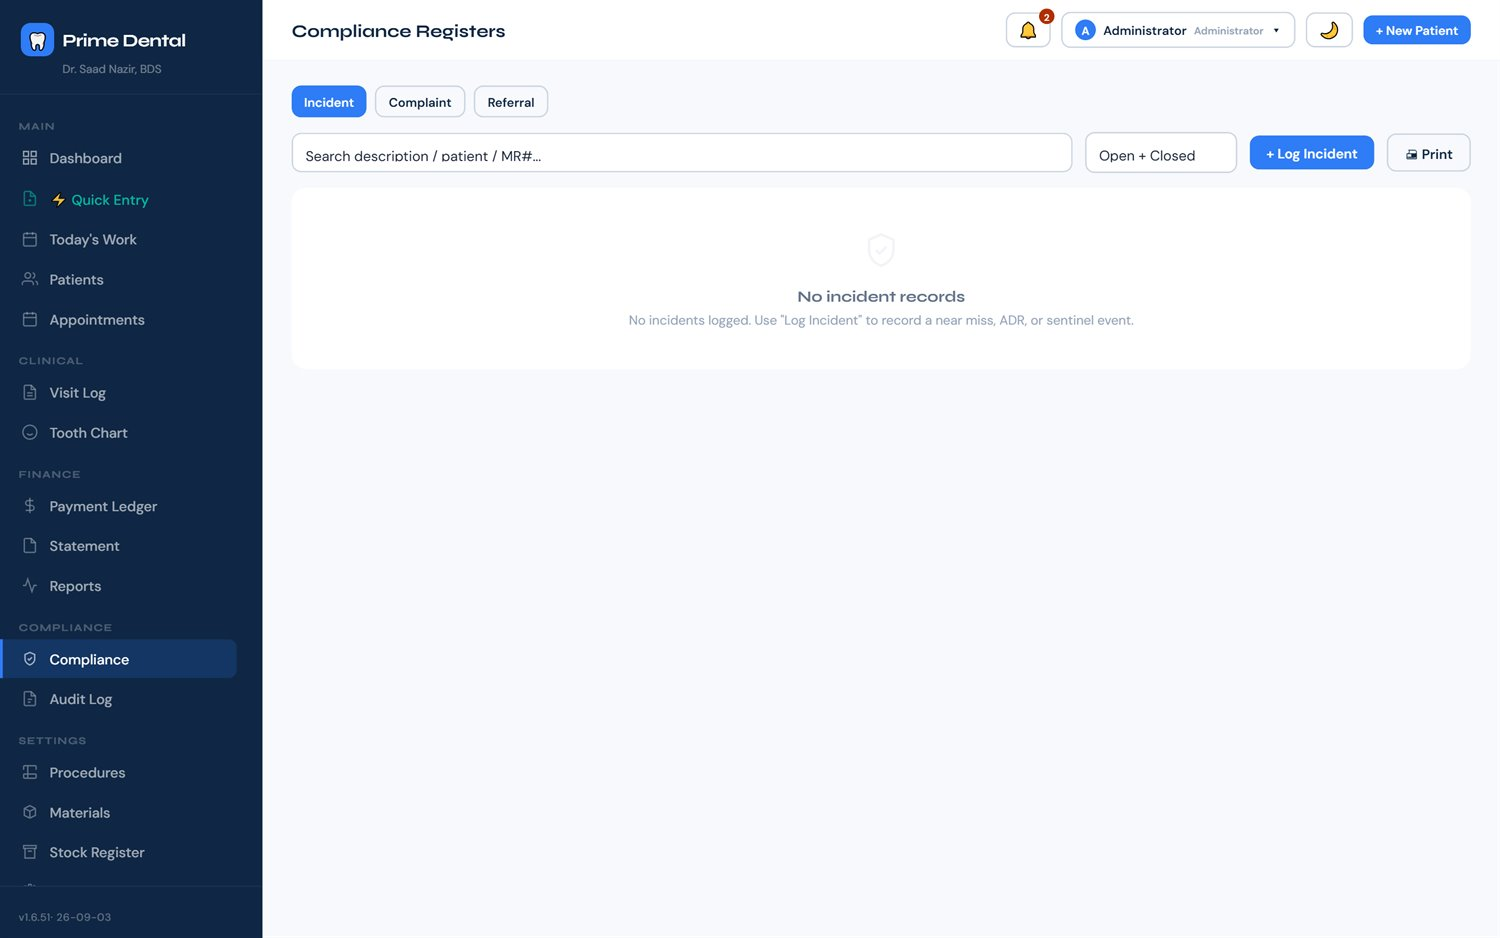
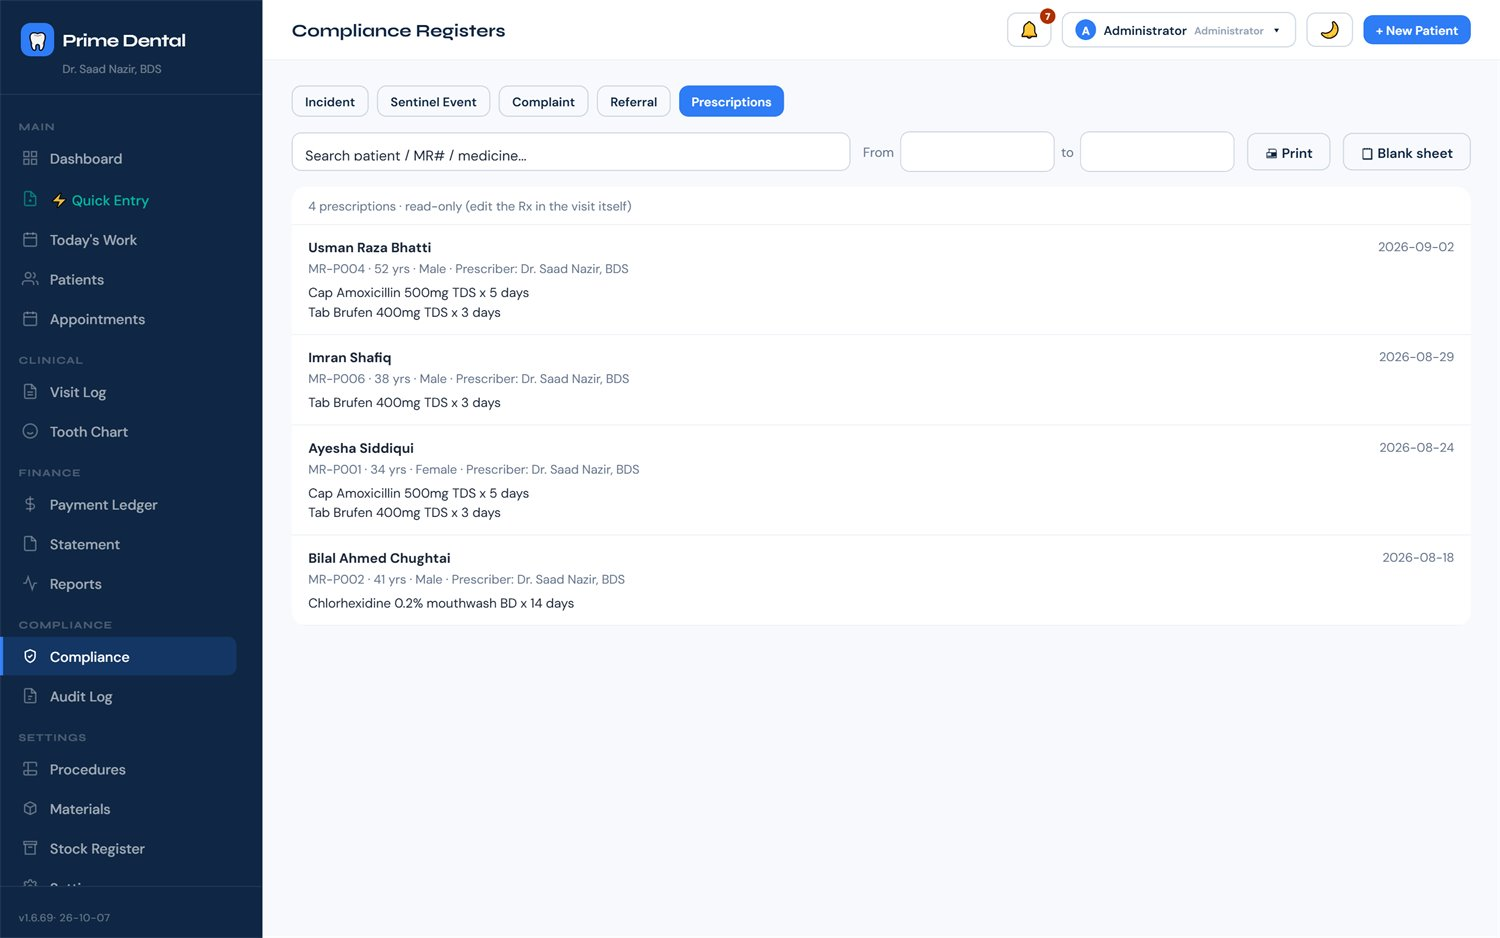
Site: free pilot is now 1 week; add RCT canal grid, ortho chart, money-received report, Urdu handout and prescription register screenshots (client 1.6.69, demo data)

diff --git a/index.html b/index.html
@@ -4,7 +4,7 @@
 <meta charset="utf-8">
 <meta name="viewport" content="width=device-width, initial-scale=1">
 <title>Prime Dental — Practice software that works without internet</title>
-<meta name="description" content="Offline-first dental practice management for Pakistani clinics. Patient records, clinical notes, billing, stock and PHC compliance — all on your own computer. Free 1-month pilot.">
+<meta name="description" content="Offline-first dental practice management for Pakistani clinics. Patient records, clinical notes, billing, stock and PHC compliance — all on your own computer. Free 1-week pilot.">
 <link rel="canonical" href="https://primedentalpk.com/">
 <meta property="og:site_name" content="Prime Dental">
 <meta property="og:title" content="Prime Dental — Practice software that works without internet">
@@ -261,7 +261,7 @@
   var WHATSAPP_NUMBER = "923144685900";      // your number, digits only, country code first, no + and no dashes
   var YOUTUBE_ID      = "YfW4p5If5gs";                   // SHORT teaser: 11-char id from the YouTube link, e.g. "dQw4w9WgXcQ"
   var YOUTUBE_FULL_ID = "";                   // optional — full walkthrough, shown as a link under the player
-  var WHATSAPP_TEXT   = "Assalam o Alaikum. I saw the Prime Dental demo and I'd like to try the 1-month pilot at my clinic.";
+  var WHATSAPP_TEXT   = "Assalam o Alaikum. I saw the Prime Dental demo and I'd like to try the 1-week pilot at my clinic.";
 </script>
 
 <header>
@@ -289,7 +289,7 @@
     <div class="cta-row">
       <a class="btn btn-wa js-wa" href="#">
         <svg width="18" height="18" viewBox="0 0 24 24" fill="currentColor" aria-hidden="true"><path d="M17.5 14.4c-.3-.2-1.8-.9-2-1-.3-.1-.5-.2-.7.1-.2.3-.7 1-.9 1.2-.2.2-.3.2-.6.1-.3-.2-1.3-.5-2.4-1.5-.9-.8-1.5-1.8-1.7-2.1-.2-.3 0-.5.1-.6l.5-.5c.1-.2.2-.3.3-.5 0-.2 0-.4 0-.5 0-.2-.7-1.6-.9-2.2-.3-.6-.5-.5-.7-.5h-.6c-.2 0-.5.1-.8.4-.3.3-1 1-1 2.5s1.1 2.9 1.2 3.1c.2.2 2.1 3.2 5.1 4.4 1.9.8 2.6.9 3.5.7.6-.1 1.8-.7 2-1.4.3-.7.3-1.3.2-1.4-.1-.2-.3-.2-.6-.3zM12 2C6.5 2 2 6.5 2 12c0 1.8.5 3.4 1.3 4.9L2 22l5.3-1.4c1.4.8 3 1.2 4.7 1.2 5.5 0 10-4.5 10-10S17.5 2 12 2zm0 18.2c-1.6 0-3-.4-4.3-1.2l-.3-.2-3.1.8.8-3-.2-.3c-.8-1.3-1.3-2.8-1.3-4.4C3.6 7.4 7.4 3.6 12 3.6S20.4 7.4 20.4 12 16.6 20.2 12 20.2z"/></svg>
-        Request a free 1-month pilot
+        Request a free 1-week pilot
       </a>
       <a class="btn btn-ghost" href="#demo">Watch the demo</a>
     </div>
@@ -410,10 +410,46 @@
       <div><div class="shot"><img loading="lazy" src="img/04-toothchart.jpg" width="1500" height="938" alt="Tooth chart for a patient"></div></div>
     </div>
 
-    <!-- 5 — full width: the printed documents are the most persuasive thing here -->
+    <!-- 5 -->
+    <div class="step">
+      <div class="step-txt">
+        <div class="step-num">5</div>
+        <h3>Root canals, canal by canal</h3>
+        <p>An RCT over several sittings is recorded as one treatment. Each canal gets its working length,
+          reference point and master file, and the next sitting opens with all of it already filled in.</p>
+        <ul>
+          <li>Canal names suggested for the tooth (MB, MB2, DB, P…) and always editable</li>
+          <li>Every earlier sitting shown above today's note</li>
+          <li>Tick each canal as it is obturated. The canals print on the clinical record.</li>
+        </ul>
+      </div>
+      <div><div class="shot shot--doc"><img loading="lazy" src="img/17-rct-canals.jpg" width="1440" height="1620" alt="Continue Treatment window for an RCT on tooth 36 showing the previous sitting and a canal grid with working length, reference point, master file and obturated tick for MB, ML and D canals"></div></div>
+    </div>
+
+    <!-- 6 — full width: orthodontics -->
     <div class="docs-block">
       <div class="docs-head">
-        <div class="step-num">5</div>
+        <div class="step-num">6</div>
+        <h3>An orthodontic chart for every braces case</h3>
+        <p>Pre-treatment records, every adjustment sitting and the debond, all in one place. Each
+          sitting keeps its wires and auxiliaries, and the pre and post readings sit side by side.</p>
+      </div>
+      <div class="pair">
+        <div>
+          <div class="shot shot--doc"><img loading="lazy" src="img/15-ortho-assessment.jpg" width="1500" height="906" alt="Ortho chart assessment tab with diagnosis, treatment plan, pre and post treatment readings and an automatic interpretation panel"></div>
+          <div class="cap"><b>Assessment</b>: enter overjet, overbite, molar and canine relations and ceph values, and the interpretation is worked out for you</div>
+        </div>
+        <div>
+          <div class="shot shot--doc"><img loading="lazy" src="img/16-ortho-photochart.jpg" width="1500" height="906" alt="Ortho photo chart showing treatment progression sittings, newest first, each with upper and lower wire and a row of photo boxes"></div>
+          <div class="cap"><b>Photo chart</b>: newest sitting on top with its wires. Drop the photos into the boxes and they are kept at full original size. Compare any two sittings side by side.</div>
+        </div>
+      </div>
+    </div>
+
+    <!-- 7 — full width: the printed documents are the most persuasive thing here -->
+    <div class="docs-block">
+      <div class="docs-head">
+        <div class="step-num">7</div>
         <h3>Two documents come out of every visit</h3>
         <p>One for your file, one for the patient's hand — both on your letterhead with your name and
           PMDC number, both generated automatically from the note you already wrote. No retyping,
@@ -425,16 +461,16 @@
           <div class="cap"><b>Clinical Visit Record</b> — the full note, for your file</div>
         </div>
         <div>
-          <div class="shot shot--doc"><img loading="lazy" src="img/13-handout.jpg" width="1500" height="932" alt="Patient handout showing prescription and post-treatment instructions"></div>
+          <div class="shot shot--doc"><img loading="lazy" src="img/19-handout-urdu.jpg" width="1500" height="1149" alt="Patient prescription handout with English prescription and post-treatment instructions written in Urdu Nastaliq"></div>
           <div class="cap"><b>Patient handout</b> — prescription and instructions only, in English or <b>Urdu (Nastaliq)</b>. Save it as an image and send it on WhatsApp.</div>
         </div>
       </div>
     </div>
 
-    <!-- 6 -->
+    <!-- 8 -->
     <div class="step">
       <div class="step-txt">
-        <div class="step-num">6</div>
+        <div class="step-num">8</div>
         <h3>Money, tracked to the procedure</h3>
         <p>Every payment is attached to the treatment it paid for — not dumped in a daybook.
           Part-payments, discounts and multi-procedure packages all behave properly.</p>
@@ -447,21 +483,26 @@
       <div><div class="shot"><img loading="lazy" src="img/05-ledger.jpg" width="1500" height="938" alt="Payment ledger listing payments by patient, method and date"></div></div>
     </div>
 
-    <!-- 7 -->
+    <!-- 9 -->
     <div class="step">
       <div class="step-txt">
-        <div class="step-num">7</div>
+        <div class="step-num">9</div>
         <h3>Reports that answer real questions</h3>
         <p>What did the clinic earn this month, which procedures actually bring in the money,
           who hasn't come back — without exporting anything to Excel first.</p>
+        <ul>
+          <li>Click any month to see the work finished and <b>every rupee received</b> that month</li>
+          <li>Old dues paid this month are marked <b>earlier</b>, so the month adds up exactly to what came in</li>
+          <li>Discounts and fee changes are listed on the day they were made</li>
+        </ul>
       </div>
-      <div><div class="shot"><img loading="lazy" src="img/06-reports.jpg" width="1500" height="1311" alt="Reports page with revenue and procedure breakdowns"></div></div>
+      <div><div class="shot shot--doc"><img loading="lazy" src="img/18-money-received.jpg" width="1500" height="1215" alt="Reports month drill-down showing work finished and a Money received this month table, with old dues marked as earlier"></div></div>
     </div>
 
-    <!-- 8 -->
+    <!-- 10 -->
     <div class="step">
       <div class="step-txt">
-        <div class="step-num">8</div>
+        <div class="step-num">10</div>
         <h3>Stock that counts the way a clinic actually uses things</h3>
         <p>Most software counts boxes. A composite syringe isn't a box — it's roughly thirty
           restorations. Prime Dental tracks packs, pieces and uses per piece, so what it tells you is
@@ -475,10 +516,10 @@
       <div><div class="shot"><img loading="lazy" src="img/07-stockregister.jpg" width="1500" height="2001" alt="Stock register showing on-hand quantities, batches and expiry dates"></div></div>
     </div>
 
-    <!-- 9 -->
+    <!-- 11 -->
     <div class="step">
       <div class="step-txt">
-        <div class="step-num">9</div>
+        <div class="step-num">11</div>
         <h3>Know what a procedure really costs you</h3>
         <p>Set your chair cost per minute and the materials each procedure consumes, and the software
           works out what it costs before you decide what to charge. Your full catalogue, priced.</p>
@@ -486,10 +527,10 @@
       <div><div class="shot"><img loading="lazy" src="img/10-procedures.jpg" width="1500" height="1791" alt="Procedure catalogue with prices, chair minutes and material recipes"></div></div>
     </div>
 
-    <!-- 10 -->
+    <!-- 12 -->
     <div class="step">
       <div class="step-txt">
-        <div class="step-num">10</div>
+        <div class="step-num">12</div>
         <h3>Ready when the inspector walks in</h3>
         <p>The registers a PHC inspection asks for, kept as you go instead of reconstructed the night
           before — referrals, incidents, complaints, sentinel events and adverse drug reactions.</p>
@@ -503,10 +544,10 @@
       <div><div class="shot"><img loading="lazy" src="img/09-compliance.jpg" width="1500" height="938" alt="Compliance registers page"></div></div>
     </div>
 
-    <!-- 11 -->
+    <!-- 13 -->
     <div class="step">
       <div class="step-txt">
-        <div class="step-num">11</div>
+        <div class="step-num">13</div>
         <h3>Every change is written down</h3>
         <p>Who changed what, and when. The audit log records it automatically — you cannot turn it off,
           and it captures the fact of a change without ever storing the patient's clinical text.</p>
@@ -518,10 +559,10 @@
       <div><div class="shot"><img loading="lazy" src="img/08-auditlog.jpg" width="1500" height="1580" alt="Audit log listing changes with user, action, entity and timestamp"></div></div>
     </div>
 
-    <!-- 12 -->
+    <!-- 14 -->
     <div class="step">
       <div class="step-txt">
-        <div class="step-num">12</div>
+        <div class="step-num">14</div>
         <h3>Appointments and recalls</h3>
         <p>Book the chair, set the status as the day moves, and send reminders straight to WhatsApp.
           Recalls come back to the dashboard on their own when they fall due.</p>
@@ -573,7 +614,7 @@
   <div class="wrap">
     <div class="pilot-box">
       <div class="kicker">Pilot programme</div>
-      <h2>Try it in your clinic for a month, free</h2>
+      <h2>Try it in your clinic for a week, free</h2>
       <p class="sub">Prime Dental is being rolled out to a small number of clinics first, so each one
         gets set up properly. Message me and I'll walk you through the install myself.</p>
       <a class="btn btn-wa js-wa" href="#" style="font-size:16px;padding:13px 24px">
@@ -583,7 +624,7 @@
       <div class="steps3">
         <div class="s"><div class="n">1</div><b>You message me</b><span>Tell me your clinic name and city. We'll find fifteen minutes.</span></div>
         <div class="s"><div class="n">2</div><b>I get you installed</b><span>I send the installer and stay on the call while it goes on — including your first patient.</span></div>
-        <div class="s"><div class="n">3</div><b>Use it for a month</b><span>Real patients, real days. If it isn't earning its place, walk away — your data exports out with you.</span></div>
+        <div class="s"><div class="n">3</div><b>Use it for a week</b><span>Real patients, real days. If it isn't earning its place, walk away — your data exports out with you.</span></div>
       </div>
     </div>
   </div>
@@ -636,7 +677,7 @@
       <details>
         <summary>What does it cost after the pilot?</summary>
         <p>Message me and we'll talk about it based on your clinic. I'd rather quote you honestly after
-          you've used it for a month than publish a number that fits nobody.</p>
+          you've used it for a week than publish a number that fits nobody.</p>
       </details>
       <details>
         <summary>Who built this?</summary>
